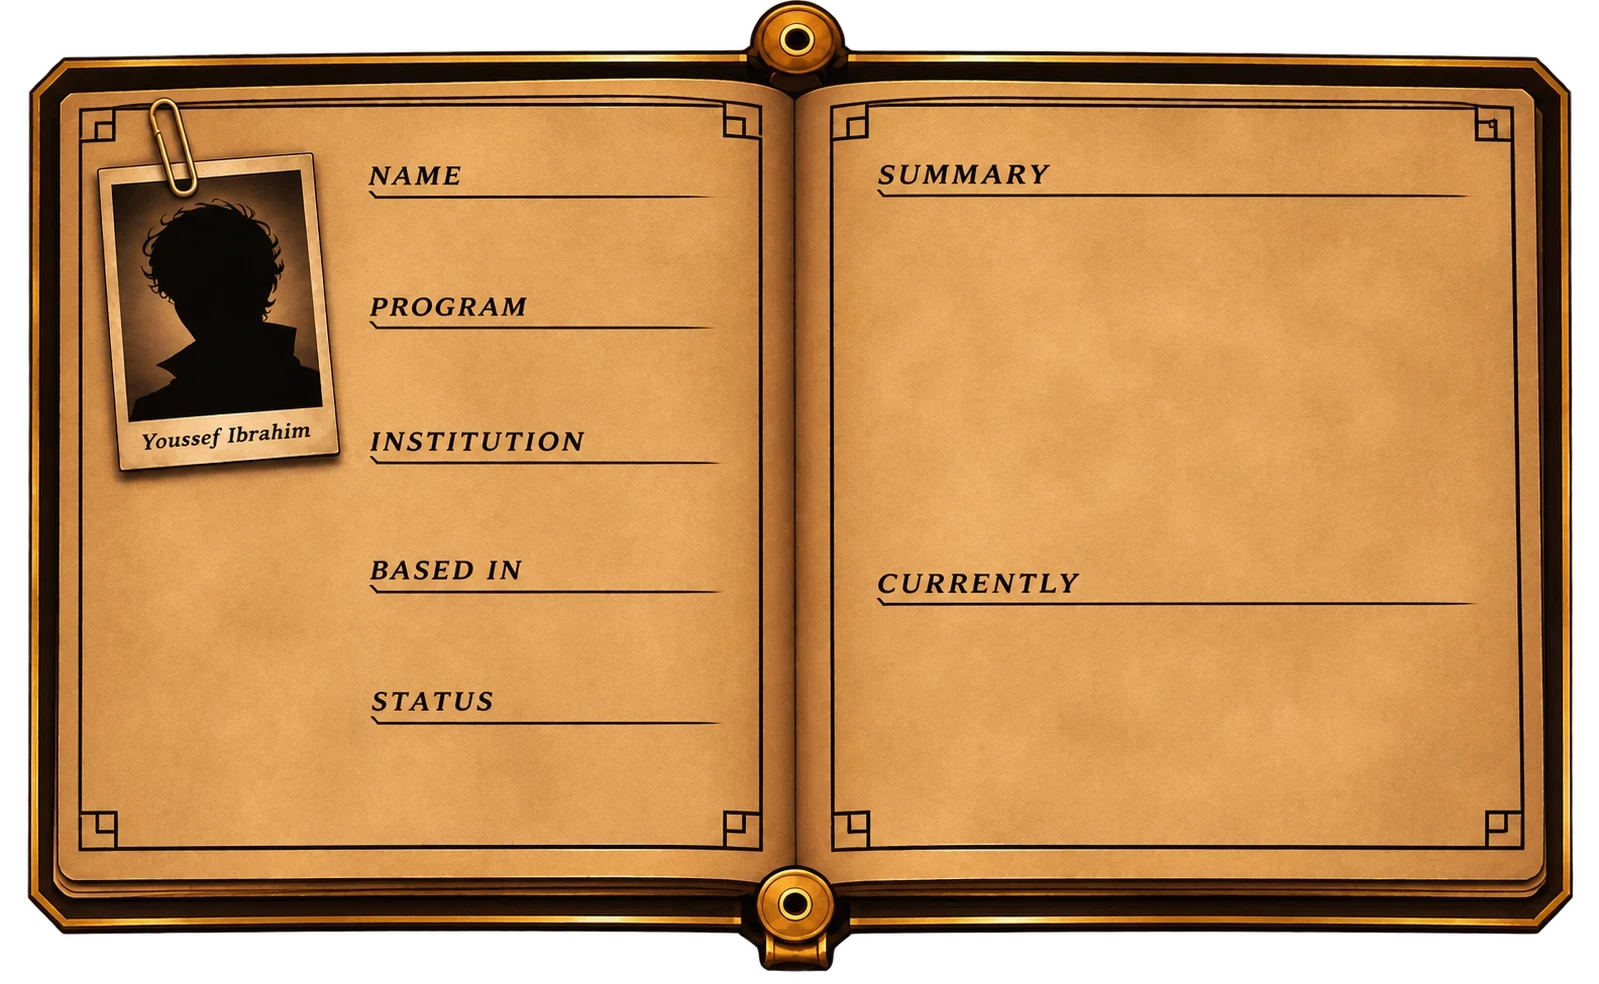
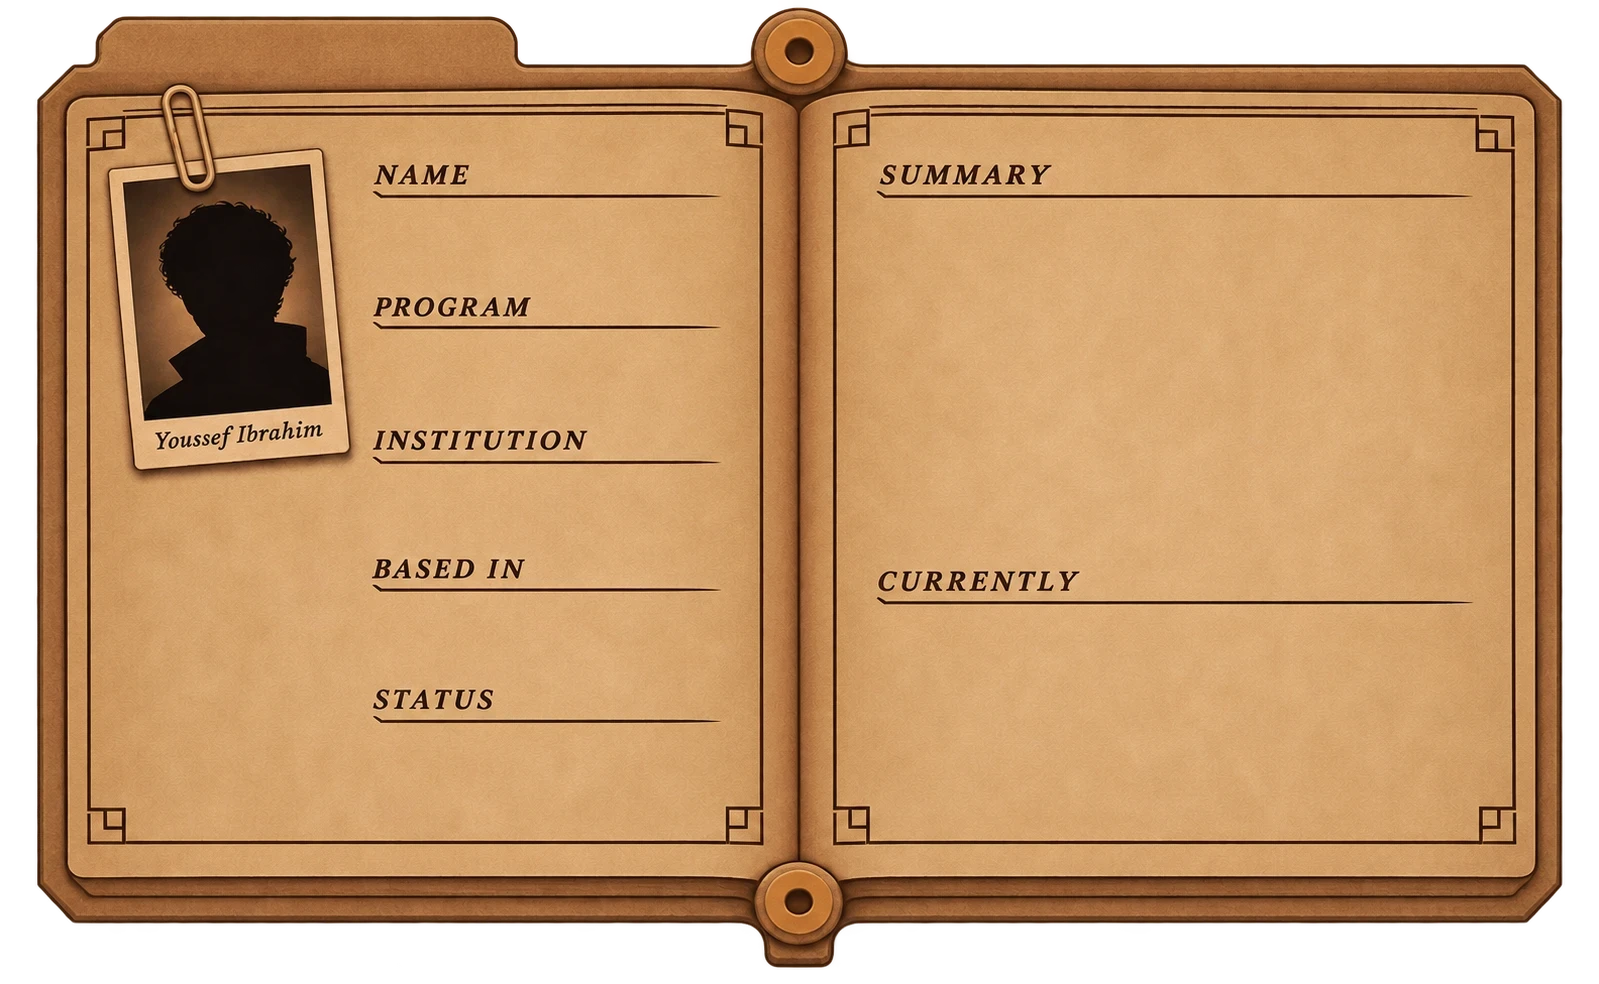
Lane-true traffic, street-level spotlights, drifting sky, sharper highlights
- Cars follow the measured curb and centre line, stay in their lane,
  and arrive one or two every fifteen seconds
- Spotlights rise from behind trees, rooftops and the balcony; the
  little lamp ovals are gone
- The whole sky drifts faster, passing behind the skyline and across
  the moon, which stays put
- Three street lamps flicker now and then
- Museum cases, books, case file and phone highlights retraced; phone
  halo removed; copy-email hit area sits on its words
- Case file opens on the new dossier art

diff --git a/styles.css b/styles.css
@@ -55,25 +55,45 @@ button { font: inherit; color: inherit; }
 .poi .beam { opacity: 0; transition: opacity .45s ease; pointer-events: none; mix-blend-mode: screen; transform-box: view-box; animation: sweepA 5.2s ease-in-out infinite alternate; animation-play-state: paused; }
 .poi .beam-b { animation-name: sweepB; animation-duration: 4.6s; }
 .poi.lit .beam, .poi:focus-visible .beam { opacity: 1; animation-play-state: running; }
-.poi .lamp-pool { fill: #fff2cc; filter: drop-shadow(0 0 4px rgba(255,220,150,.95)); }
 /* the searchlights sweep slowly, out of step with each other */
 @keyframes sweepA { from { transform: rotate(-5deg); } to { transform: rotate(4deg); } }
 @keyframes sweepB { from { transform: rotate(5deg); } to { transform: rotate(-4deg); } }
-/* the clouds drift slowly across the sky; the moon, spire and rooftops stay put */
+/* every cloud drifts across the sky and passes behind the skyline; the moon stays put and the
+   dark wisps slide across its face */
 .sky-drift {
-  position: absolute; left: 21.4115%; top: 0; width: 78.5885%; height: 26.5675%;
+  position: absolute; left: 23.5048%; top: 0; width: 76.4952%; height: 46.7588%;
   overflow: hidden; pointer-events: none;
-  -webkit-mask: url(assets/sky-mask.png?v=14) 0 0 / 100% 100% no-repeat; mask: url(assets/sky-mask.png?v=14) 0 0 / 100% 100% no-repeat;
+  -webkit-mask: url(assets/sky-mask.png?v=15) 0 0 / 100% 100% no-repeat; mask: url(assets/sky-mask.png?v=15) 0 0 / 100% 100% no-repeat;
 }
-.sky-strip {
-  position: absolute; top: 0; height: 100%; left: -158.4475%; width: 407.9148%;
-  background: url(assets/sky-tile.webp?v=14) 0 0 / 20% 100% repeat-x;
-  animation: skyDrift 260s linear infinite; will-change: transform;
+.sky-strip, .sky-front {
+  position: absolute; top: 0; height: 100%; left: -84.363%; width: 268.725%;
+  animation: skyDrift 140s linear infinite; will-change: transform;
 }
-@keyframes skyDrift { to { transform: translateX(20%); } }
+.sky-strip { background: url(assets/sky-tile.webp?v=15) 0 0 / 31.394% 100% repeat-x; }
+.sky-moon { position: absolute; left: 0; top: 0; width: 55.747%; height: 100%; display: block; user-select: none; -webkit-user-drag: none; }
+.sky-front-wrap {
+  position: absolute; inset: 0;
+  -webkit-mask: radial-gradient(ellipse 10.6% 30.9% at 24.94% 20.91%, #000 0, #000 92%, transparent 100%) 0 0 / 100% 100% no-repeat;
+  mask: radial-gradient(ellipse 10.6% 30.9% at 24.94% 20.91%, #000 0, #000 92%, transparent 100%) 0 0 / 100% 100% no-repeat;
+}
+.sky-front { background: url(assets/cloud-front-tile.webp?v=15) 0 0 / 31.394% 100% repeat-x; }
+@keyframes skyDrift { to { transform: translateX(31.394%); } }
 /* cars on the street, and what stands in front of them (balcony, trees, near lamp) */
 .traffic { position: absolute; inset: 0; width: 100%; height: 100%; pointer-events: none; }
 .city-front { position: absolute; left: 29.9043%; top: 72.9012%; width: 39.5933%; height: auto; pointer-events: none; user-select: none; -webkit-user-drag: none; }
+/* a few tired street lamps stutter now and then */
+.lamp-flickers { position: absolute; inset: 0; pointer-events: none; }
+.lamp-flicker { position: absolute; border-radius: 50%; opacity: 0; background: radial-gradient(closest-side, rgba(8,6,22,.92), rgba(8,6,22,.7) 35%, rgba(8,6,22,0)); animation: streetFlickA 6.7s linear infinite; }
+.lf-b { animation-name: streetFlickB; animation-duration: 8.9s; }
+.lf-c { animation-name: streetFlickA; animation-duration: 11.3s; animation-delay: -4s; }
+@keyframes streetFlickA {
+  0%, 70% { opacity: 0; } 70.6% { opacity: .9; } 71.2% { opacity: .2; } 71.8% { opacity: .85; } 73% { opacity: 0; }
+  88% { opacity: 0; } 88.5% { opacity: .7; } 89.2%, 100% { opacity: 0; }
+}
+@keyframes streetFlickB {
+  0%, 22% { opacity: 0; } 22.5% { opacity: .8; } 23.3%, 57% { opacity: 0; } 57.4% { opacity: .95; } 58% { opacity: .3; }
+  58.6% { opacity: .9; } 60.5% { opacity: .9; } 61.2%, 100% { opacity: 0; }
+}
 .room-rain { position: absolute; inset: 0; width: 100%; height: 100%; pointer-events: none; }
 .rain { position: absolute; inset: 0; width: 100%; height: 100%; z-index: 4; pointer-events: none; }
 
@@ -386,7 +406,6 @@ body.pannable .swipe-hint { display: block; }
 /* the phone itself: pick it up to leave a message */
 .phone-hot { stroke: rgba(255,226,170,.55); fill: rgba(242,196,107,.04); animation: filePulse 2.4s ease-in-out infinite; }
 .phone-hot:hover, .phone-hot:focus-visible { animation: none; }
-.phone-halo { pointer-events: none; animation: halo 2.4s ease-in-out infinite; }
 .phone-tag {
   position: absolute; left: 56.1%; top: 31%; z-index: 3; pointer-events: none; transform: translate(-50%, -100%);
   padding: 7px 14px 5px; background: rgba(20,6,8,.9); border: 1px solid rgba(242,196,107,.7);
@@ -397,8 +416,7 @@ body.pannable .swipe-hint { display: block; }
 .phone-tag::after { content: ""; position: absolute; left: 50%; bottom: -8px; width: 12px; height: 12px; margin-left: -6px; background: inherit; border: inherit; border-top: 0; border-left: 0; transform: rotate(45deg); }
 .phone-tag b { font-family: var(--display); font-weight: 400; font-size: clamp(.8rem, 1.1vw, 1.05rem); letter-spacing: .08em; text-transform: uppercase; }
 .phone-tag span { font-size: clamp(.5rem, .7vw, .62rem); letter-spacing: .22em; text-transform: uppercase; color: var(--gold); }
-.room-contact.off-hook .phone-hot, .room-contact.off-hook .phone-tag, .room-contact.off-hook .phone-halo { opacity: 0; animation: none; }
-
+.room-contact.off-hook .phone-hot, .room-contact.off-hook .phone-tag, .room-contact.off-hook 
 .msg-modal { position: fixed; inset: 0; z-index: 60; display: grid; place-items: center; padding: 56px var(--gutter) 24px; overflow: auto; background: rgba(5,3,12,0); transition: background .4s; }
 .msg-modal[hidden] { display: none; }
 .msg-modal.show { background: rgba(5,3,12,.74); }
@@ -458,14 +476,14 @@ body.pannable .swipe-hint { display: block; }
 .dossier { position: relative; width: 100%; aspect-ratio: 1599 / 984; container-type: inline-size; color: #2a1d14; font-family: var(--type); filter: drop-shadow(0 30px 50px rgba(0,0,0,.7)); }
 .ds-art { position: absolute; inset: 0; width: 100%; height: 100%; user-select: none; -webkit-user-drag: none; }
 .ds-fields { margin: 0; }
-.ds-f { position: absolute; left: 23.4%; width: 21.4%; top: var(--y); }
+.ds-f { position: absolute; left: 23.6%; width: 21.4%; top: var(--y); }
 .ds-f dd { margin: 0; font-size: 1.62cqw; line-height: 1.2; white-space: nowrap; overflow: hidden; text-overflow: ellipsis; }
-.ds-summary, .ds-current { position: absolute; left: 55.2%; width: 36.6%; }
-.ds-summary { top: 23.5%; height: 33%; overflow: hidden; }
-.ds-current { top: 64.5%; height: 20%; overflow: hidden; }
+.ds-summary, .ds-current { position: absolute; left: 55%; width: 36.8%; }
+.ds-summary { top: 22%; height: 33%; overflow: hidden; }
+.ds-current { top: 63.5%; height: 21%; overflow: hidden; }
 .ds-summary p, .ds-current p { margin: 0 0 1.1cqw; font-size: 1.42cqw; line-height: 1.6; }
 .ds-sig { font-family: var(--hand); font-size: 2.6cqw !important; color: #1e2a5a; transform: rotate(-4deg); text-align: right; margin-top: 1.4cqw !important; }
-.ds-stamp { position: absolute; left: 6.6%; top: 71%; border: .3cqw double var(--red); color: var(--red); padding: .3cqw 1.2cqw .15cqw; font-family: var(--sans); font-weight: 600; letter-spacing: .2em; text-transform: uppercase; font-size: 1.2cqw; transform: rotate(-12deg); opacity: .72; mix-blend-mode: multiply; }
+.ds-stamp { position: absolute; left: 8%; top: 66%; border: .3cqw double var(--red); color: var(--red); padding: .3cqw 1.2cqw .15cqw; font-family: var(--sans); font-weight: 600; letter-spacing: .2em; text-transform: uppercase; font-size: 1.2cqw; transform: rotate(-12deg); opacity: .72; mix-blend-mode: multiply; }
 
 /* ---------- the leave-a-message card (painted deco card) ---------- */
 .msg-pop { width: min(560px, 94vw, calc((100vh - 90px) * .98)); }
@@ -493,9 +511,9 @@ body.pannable .swipe-hint { display: block; }
 .callcard .tg-status[data-kind="ok"] { color: #c9f29a; }
 .callcard .tg-status[data-kind="err"] { color: #ff8a80; }
 .callcard .tg-status a { color: inherit; }
-.tg-copy { all: unset; position: absolute; left: 48.8%; top: 81.2%; width: 19.3%; height: 3.4%; cursor: pointer; border-radius: 2px; transition: box-shadow .3s, background .3s; }
+.tg-copy { all: unset; position: absolute; left: 48.8%; top: 83.75%; width: 19.4%; height: 3.4%; cursor: pointer; border-radius: 2px; transition: box-shadow .3s, background .3s; }
 .tg-copy:hover, .tg-copy:focus-visible { background: rgba(255,120,110,.12); box-shadow: 0 0 1.4cqw rgba(255,120,110,.5); }
-.cc-copied { position: absolute; left: 48.8%; top: 81.2%; width: 19.3%; height: 3.4%; display: grid; place-items: center; background: #050405; color: #c9f29a; font-family: var(--type); font-size: 2.2cqw; pointer-events: none; opacity: 0; transition: opacity .2s; }
+.cc-copied { position: absolute; left: 48.8%; top: 83.75%; width: 19.4%; height: 3.4%; display: grid; place-items: center; background: #050405; color: #c9f29a; font-family: var(--type); font-size: 2.2cqw; pointer-events: none; opacity: 0; transition: opacity .2s; }
 .cc-copied:not(:empty) { opacity: 1; }
 
 

diff --git a/index.html b/index.html
@@ -9,7 +9,7 @@
   <link rel="preconnect" href="https://fonts.gstatic.com" crossorigin>
   <link href="https://fonts.googleapis.com/css2?family=Caveat:wght@500&family=Josefin+Sans:wght@300;400;600&family=Limelight&family=Special+Elite&display=swap" rel="stylesheet">
   <link rel="preload" as="image" href="assets/city.webp?v=14">
-  <link rel="stylesheet" href="styles.css?v=14">
+  <link rel="stylesheet" href="styles.css?v=15">
 </head>
 <body>
 
@@ -20,9 +20,10 @@
   <div class="city-scroll" id="cityScroll">
     <div class="city-scene" id="cityScene">
       <img class="scene-img" src="assets/city.webp?v=14" alt="" draggable="false">
-      <div class="sky-drift" aria-hidden="true"><div class="sky-strip"></div></div>
+      <div class="sky-drift" aria-hidden="true"><div class="sky-strip"></div><img class="sky-moon" src="assets/sky-moon.webp?v=15" alt="" draggable="false"><div class="sky-front-wrap"><div class="sky-front"></div></div></div>
       <canvas class="traffic" id="traffic" aria-hidden="true"></canvas>
       <img class="city-front" src="assets/city-front.webp?v=14" alt="" draggable="false">
+      <div class="lamp-flickers" aria-hidden="true"><i class="lamp-flicker lf-a" style="left:57.356%;top:69.926%;width:3.110%;height:5.526%"></i><i class="lamp-flicker lf-b" style="left:73.804%;top:75.239%;width:4.067%;height:7.226%"></i><i class="lamp-flicker lf-c" style="left:90.849%;top:79.384%;width:5.024%;height:8.927%"></i></div>
       <svg class="scene-svg" id="world" viewBox="0 0 1672 941" preserveAspectRatio="none" role="group" aria-label="City — choose a building"></svg>
     </div>
   </div>
@@ -140,7 +141,7 @@
       </defs>
       <!-- the painted steam, set swirling -->
       <image class="steam" href="assets/steam.png?v=14" x="1000" y="465" width="100" height="135" filter="url(#steamWave)" aria-hidden="true"/>
-      <polygon class="file-hot" id="fileHot" points="627,597 877,611 883,628 878,642 826,733 812,743 660,729 514,717 510,703" tabindex="0" role="button" aria-label="Open the case file on Youssef Ibrahim"/>
+      <polygon class="file-hot" id="fileHot" points="628,598 876,610 882,624 880,636 830,728 814,741 660,730 515,717 509,702" tabindex="0" role="button" aria-label="Open the case file on Youssef Ibrahim"/>
     </svg>
     <div class="file-tag" aria-hidden="true"><b>Ibrahim, Y.</b><span>Case file · click to open</span></div>
   </div>
@@ -154,14 +155,14 @@
     <div class="file-pop">
       <button class="file-close" type="button">Back on the desk ✕</button>
       <article class="dossier" aria-label="Case file: Youssef Ibrahim">
-        <img class="ds-art" src="assets/case-file.webp?v=14" alt="" draggable="false">
+        <img class="ds-art" src="assets/case-file.webp?v=15" alt="" draggable="false">
         <h3 class="sr-only">Case No. 47-2189 — Ibrahim, Y.</h3>
         <dl class="ds-fields">
-          <div class="ds-f" style="--y:24.4%"><dt class="sr-only">Name</dt><dd>Youssef Ibrahim</dd></div>
-          <div class="ds-f" style="--y:37.8%"><dt class="sr-only">Program</dt><dd>B.C.S. Computer Science</dd></div>
-          <div class="ds-f" style="--y:51.5%"><dt class="sr-only">Institution</dt><dd>Carleton University</dd></div>
-          <div class="ds-f" style="--y:64.5%"><dt class="sr-only">Based in</dt><dd>City, Province</dd></div>
-          <div class="ds-f" style="--y:77.9%"><dt class="sr-only">Status</dt><dd>Open to opportunities</dd></div>
+          <div class="ds-f" style="--y:21.6%"><dt class="sr-only">Name</dt><dd>Youssef Ibrahim</dd></div>
+          <div class="ds-f" style="--y:35%"><dt class="sr-only">Program</dt><dd>B.C.S. Computer Science</dd></div>
+          <div class="ds-f" style="--y:48.6%"><dt class="sr-only">Institution</dt><dd>Carleton University</dd></div>
+          <div class="ds-f" style="--y:61.6%"><dt class="sr-only">Based in</dt><dd>City, Province</dd></div>
+          <div class="ds-f" style="--y:75%"><dt class="sr-only">Status</dt><dd>Open to opportunities</dd></div>
         </dl>
         <span class="ds-stamp">Confidential</span>
         <div class="ds-summary">
@@ -187,9 +188,9 @@
   <div class="scene">
     <img class="scene-img" src="assets/library.webp?v=14" alt="" draggable="false">
     <svg class="scene-svg" viewBox="0 0 1671 941" preserveAspectRatio="none">
-      <polygon class="book-hot" data-i="0" points="1187,302 1210,290 1236,293 1282,301 1262,512 1257,576 1198,553 1149,564" tabindex="0" role="button" aria-label="Skill One"/>
-      <polygon class="book-hot" data-i="1" points="1289,234 1312,222 1336,222 1426,238 1408,283 1338,307 1323,508 1261,512" tabindex="0" role="button" aria-label="Skill Two"/>
-      <polygon class="book-hot" data-i="2" points="1438,163 1464,144 1570,148 1568,208 1559,525 1464,520 1393,523" tabindex="0" role="button" aria-label="Skill Three"/>
+      <polygon class="book-hot" data-i="0" points="1185,303 1197,293 1217,290 1247,294 1280,301 1260,507 1256,560 1170,560 1150,563 1150,552" tabindex="0" role="button" aria-label="Skill One"/>
+      <polygon class="book-hot" data-i="1" points="1287,232 1295,222 1312,219 1334,221 1423,236 1406,289 1347,301 1340,309 1322,508 1265,513" tabindex="0" role="button" aria-label="Skill Two"/>
+      <polygon class="book-hot" data-i="2" points="1433,170 1445,155 1470,146 1500,145 1566,152 1566,195 1558,525 1505,527 1400,522 1404,500" tabindex="0" role="button" aria-label="Skill Three"/>
     </svg>
     <div class="book-tip" aria-hidden="true"></div>
     <p class="lib-hint">Take a book from the shelf</p>
@@ -270,10 +271,10 @@
         <rect x="1495" y="704" width="20" height="10" fill="url(#gGold)"/>
       </g>
       <!-- the cases themselves are clickable -->
-      <polygon class="case-hot" data-i="0" points="4,500 325,505 325,762 4,762" tabindex="0" role="button" aria-label="Exhibit I"/>
-      <polygon class="case-hot" data-i="1" points="358,565 508,565 508,698 358,698" tabindex="0" role="button" aria-label="Exhibit II"/>
-      <polygon class="case-hot" data-i="2" points="1160,565 1305,565 1305,698 1160,698" tabindex="0" role="button" aria-label="Exhibit III"/>
-      <polygon class="case-hot" data-i="3" points="1340,482 1668,482 1668,762 1340,762" tabindex="0" role="button" aria-label="Exhibit IV"/>
+      <polygon class="case-hot" data-i="0" points="0,499 200,499 325,526 325,742 200,767 0,760" tabindex="0" role="button" aria-label="Exhibit I"/>
+      <polygon class="case-hot" data-i="1" points="361,566 469,566 510,576 510,689 470,699 362,692" tabindex="0" role="button" aria-label="Exhibit II"/>
+      <polygon class="case-hot" data-i="2" points="1159,571 1200,563 1305,565 1302,693 1201,697 1160,689" tabindex="0" role="button" aria-label="Exhibit III"/>
+      <polygon class="case-hot" data-i="3" points="1338,517 1498,479 1671,481 1671,752 1498,780 1332,752 1336,530" tabindex="0" role="button" aria-label="Exhibit IV"/>
     </svg>
     <div class="case-tip" aria-hidden="true"></div>
     <div class="wall-text" aria-live="polite">
@@ -307,11 +308,7 @@
     <img class="scene-img" src="assets/booth.webp?v=14" alt="" draggable="false">
     <i class="flicker flicker-booth" aria-hidden="true"></i>
     <svg class="scene-svg" viewBox="0 0 1672 941" preserveAspectRatio="none">
-      <defs>
-        <radialGradient id="phoneGlow" cx=".5" cy=".5" r=".6"><stop offset="0" stop-color="#ffd98a" stop-opacity=".3"/><stop offset="1" stop-color="#ffd98a" stop-opacity="0"/></radialGradient>
-      </defs>
-      <ellipse class="phone-halo" cx="938" cy="500" rx="180" ry="260" fill="url(#phoneGlow)"/>
-      <polygon class="phone-hot" id="phoneHot" points="835,310 850,298 1035,298 1050,315 1050,690 1000,700 905,700 885,720 860,722 825,705 820,620 830,545 830,360" tabindex="0" role="button" aria-label="Pick up the phone to send Youssef a message"/>
+      <polygon class="phone-hot" id="phoneHot" points="833,330 838,318 865,317 868,302 1012,302 1016,317 1043,318 1049,330 1049,690 1043,694 888,694 886,705 875,722 858,725 842,718 832,700 826,660 828,600 833,560" tabindex="0" role="button" aria-label="Pick up the phone to send Youssef a message"/>
     </svg>
     <div class="lcd" aria-hidden="true"><span id="lcd">INSERT 10¢</span></div>
     <div class="phone-tag" aria-hidden="true"><b>Pick up</b><span>Leave a message</span></div>
@@ -372,6 +369,6 @@
   </div>
 </aside>
 
-<script src="main.js?v=14"></script>
+<script src="main.js?v=15"></script>
 </body>
 </html>

diff --git a/main.js b/main.js
@@ -62,6 +62,7 @@
     return s + `</g>`;
   }
 
+  const BEAM_MASKS = ['projects', 'hobbies', 'profile', 'contact'];
   const world = $('#world');
   (function buildCity() {
     let s = `<defs>
@@ -83,12 +84,16 @@
         // the beam is drawn along its own axis and then turned, so it can sweep about the lamp
         const ang = Math.atan2(top - sy, ex - sx) * 180 / Math.PI + 90;
         inner += `<g class="beam beam-${tag}" style="transform-origin:${f1(sx)}px ${f1(sy)}px">` +
-          `<polygon class="cone" points="${f1(sx - 2.5)},${f1(sy)} ${f1(sx + 2.5)},${f1(sy)} ${f1(sx + half)},${f1(sy - len)} ${f1(sx - half)},${f1(sy - len)}" fill="url(#${id}-v)" transform="rotate(${f1(ang)} ${f1(sx)} ${f1(sy)})"/>` +
-          `<ellipse class="lamp-pool" cx="${f1(sx)}" cy="${f1(sy)}" rx="${p.small ? 5 : 9}" ry="${p.small ? 2.2 : 3.5}"/></g>`;
+          `<polygon class="cone" points="${f1(sx - 2.5)},${f1(sy)} ${f1(sx + 2.5)},${f1(sy)} ${f1(sx + half)},${f1(sy - len)} ${f1(sx - half)},${f1(sy - len)}" fill="url(#${id}-v)" transform="rotate(${f1(ang)} ${f1(sx)} ${f1(sy)})"/></g>`;
         inner += `<linearGradient id="${id}-v" gradientUnits="userSpaceOnUse" x1="${f1(sx)}" y1="${f1(sy)}" x2="${f1(sx)}" y2="${f1(sy - len)}">
           <stop offset="0" stop-color="#fff6dc" stop-opacity=".85"/><stop offset=".25" stop-color="#ffe9bc" stop-opacity=".5"/>
           <stop offset=".7" stop-color="#ffd98a" stop-opacity=".18"/><stop offset="1" stop-color="#ffd98a" stop-opacity="0"/></linearGradient>`;
       });
+      if (BEAM_MASKS.includes(name)) {
+        inner = `<mask id="bm-${name}" maskUnits="userSpaceOnUse" x="-400" y="-600" width="2472" height="1741">` +
+          `<image href="assets/beam-mask-${name}.png?v=15" x="0" y="0" width="${W}" height="${H}" preserveAspectRatio="none"/></mask>` +
+          `<g mask="url(#bm-${name})">${inner}</g>`;
+      }
       inner += `<polygon class="hit" points="${pl(p.hit || p.poly)}" fill="transparent"/>`;
       inner += `<circle class="zt" cx="${p.zoom[0]}" cy="${p.zoom[1]}" r="1" fill="transparent"/>`;
       const label = { projects: 'Projects', skills: 'Skills', profile: 'Profile', hobbies: 'Hobbies (museum)', contact: 'Contact (phone booth)' }[name];
@@ -169,22 +174,28 @@
      painting's own pixels; distances and speeds are in metres. */
   traffic = (() => {
     const cv = $('#traffic'), ctx = cv.getContext('2d');
-    // the far curb, traced off the painting; both lanes sit on the road below it
-    const CURB = [[560, 724], [640, 740], [700, 752], [760, 765], [800, 772], [900, 790], [1000, 808], [1100, 826],
-      [1200, 843], [1300, 862], [1400, 884], [1500, 905], [1600, 925], [1700, 944]];
-    // pixels per metre grows toward the viewer (from the lamp posts and the phone booth)
-    const ppm = x => Math.max(10, 17 + 0.042 * (x - 738));
-    const curbY = x => {
-      if (x <= CURB[0][0]) return CURB[0][1];
-      for (let i = 1; i < CURB.length; i++) if (x <= CURB[i][0]) {
-        const [x0, y0] = CURB[i - 1], [x1, y1] = CURB[i];
+    // the far curb and the dashed centre line, both measured off the painting
+    const CURB = [[560, 712], [760, 745], [800, 752], [900, 770], [1000, 792], [1100, 815], [1200, 838], [1300, 864],
+      [1400, 887], [1500, 908], [1600, 928], [1700, 948], [1800, 968]];
+    const DASH = [[560, 735], [760, 770], [863, 795], [902, 804], [933, 812], [975, 824], [1021, 837], [1075, 854],
+      [1112, 866], [1161, 884], [1188, 893], [1293, 934], [1400, 979], [1500, 1022], [1600, 1065], [1700, 1110], [1800, 1155]];
+    const along = (P, x) => {
+      if (x <= P[0][0]) return P[0][1];
+      for (let i = 1; i < P.length; i++) if (x <= P[i][0]) {
+        const [x0, y0] = P[i - 1], [x1, y1] = P[i];
         return y0 + (y1 - y0) * (x - x0) / (x1 - x0);
       }
-      return CURB[CURB.length - 1][1];
+      return P[P.length - 1][1];
     };
-    // where each lane's wheels meet the road: 0 = far lane (driver's left), 1 = near lane
-    const LANE_OFF = [0.85, 2.15];
-    const laneY = (k, x) => curbY(x) + LANE_OFF[k] * ppm(x);
+    // pixels per metre grows toward the viewer (from the lamp posts and the phone booth)
+    const ppm = x => Math.max(10, 17 + 0.042 * (x - 738));
+    // where a car's near-side tyres meet the road. The lane is the band between the curb and the
+    // dashes (far lane) or between the dashes and the same width again (near lane); the car's body
+    // fills the band above its tyres, so the tyres sit 80% of the way across.
+    const laneY = (k, x) => {
+      const c = along(CURB, x), d = along(DASH, x), g = d - c;
+      return (k === 0 ? c : d) + g * 0.8;
+    };
     // metres along the street <-> x, tabulated once
     const X0 = 590, X1 = 1720, M = [0];
     for (let x = X0 + 1; x <= X1; x++) M.push(M[M.length - 1] + 1.05 / ppm(x - 0.5));
@@ -215,7 +226,7 @@
     const WHEEL_M = 0.38; // tyre radius in metres, for how fast the wheels turn
     const CAR_H = 1.95, LEN = 5.2, S0 = 1.6, HEADWAY = 1.3, ACC = 0.9, DEC = 1.7; // metres, seconds
     let cars = [], raf = 0, last = 0, clock = 0, scale = 1, dpr = 1;
-    const spawnAt = [1.2, 3.5];
+    let spawnIn = 2;
 
     function size() {
       const w = cityScene.clientWidth, h = cityScene.clientHeight;
@@ -272,11 +283,9 @@
 
     function step(dt) {
       clock += dt;
-      // new cars turn the corner from behind the balcony
-      for (let k = 0; k < 2; k++) {
-        spawnAt[k] -= dt;
-        if (spawnAt[k] <= 0 && cars.length < 8) spawnAt[k] = spawn(k) ? 1.8 + Math.random() * 4.5 : 0.6;
-      }
+      // new cars turn the corner from behind the balcony: one or two every fifteen seconds or so
+      spawnIn -= dt;
+      if (spawnIn <= 0) spawnIn = spawn(Math.random() < 0.72 ? 1 : 0) ? 6 + Math.random() * 8 : 1;
       cars.sort((a, b) => b.m - a.m);
       for (const c of cars) {
         // follow whichever car is ahead in every lane this car occupies
@@ -425,7 +434,7 @@
     }
     // start with a little traffic already on the street
     function seed() {
-      for (let i = 0; i < 260; i++) step(0.05);
+      for (let i = 0; i < 220; i++) step(0.05);
     }
     size();
     addEventListener('resize', size);
